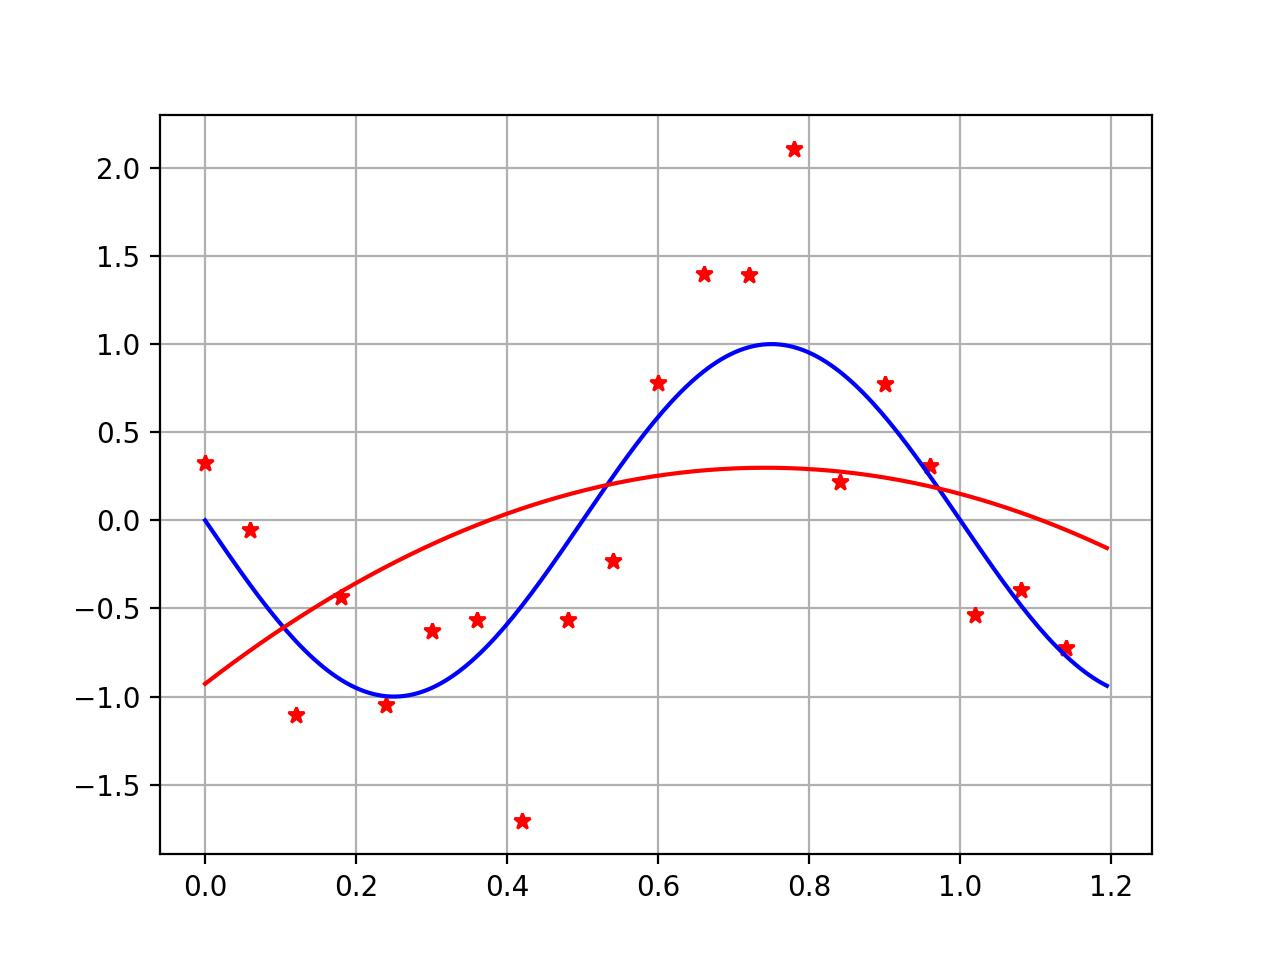
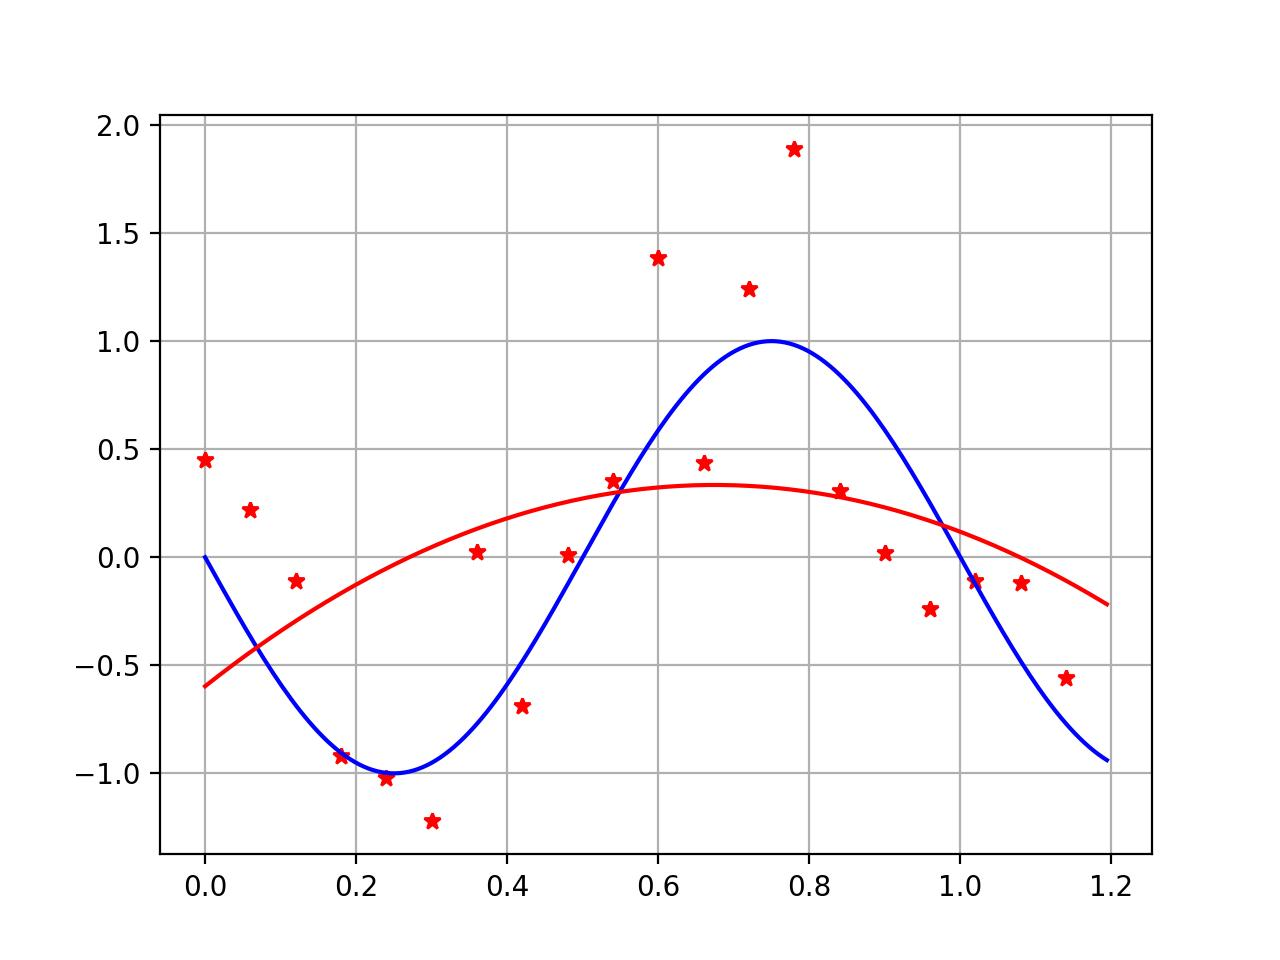
MLP bizarre

diff --git a/TP_SETI_MLP/tp_MLP.py b/TP_SETI_MLP/tp_MLP.py
@@ -5,6 +5,18 @@ from matplotlib.ticker import LinearLocator, FormatStrFormatter
 from sklearn.neural_network import MLPRegressor
 import numpy as np
 
+def plot_error_profile(L_error_app, L_error_test, namefig="error_profile"):
+    plt.plot(range(2, len(L_error_app)+2), L_error_app, '-r')
+    plt.plot(range(2, len(L_error_test)+2), L_error_test, '-b')
+    plt.grid()
+    plt.yscale("log")
+    # plt.show()
+    plt.savefig(namefig+'.jpg', dpi=200)
+    plt.close()
+
+def get_MSE(x, y, reg):
+    return np.sum(pow(reg.predict(x) - y, 2)) / x.shape[0]
+
 def tan_hyp(x):
     A = np.array([[1, 1], [-2, 1]])
     b = np.array([0.2, -0.3])
@@ -25,9 +37,9 @@ def plot_surf(figname, regr=None):
     for i, x1 in enumerate(x1v):
         for j, x2 in enumerate(x2v):
             if not regr:
-                R[j, i] = tan_hyp(np.array([x1, x2]))
+                R[i, j] = tan_hyp(np.array([x1, x2]))
             else:
-                R[j, i] = regr.predict(np.array([[x1, x2]]))[0]
+                R[i, j] = regr.predict(np.array([[x1, x2]]))[0]
 
     fig = plt.figure()
     ax = plt.axes(projection='3d')
@@ -40,7 +52,7 @@ def plot_surf(figname, regr=None):
 
     fig.colorbar(surf, shrink=0.5, aspect=5)
     plt.savefig(figname, dpi=300)
-    plt.show()
+    # plt.show()
     plt.close()
 
 def plot_surf_and_scatter(figname, X, Y, regr=None):
@@ -72,7 +84,7 @@ def plot_surf_and_scatter(figname, X, Y, regr=None):
 
     fig.colorbar(surf, shrink=0.5, aspect=5)
     plt.savefig(figname, dpi=300)
-    plt.show()
+    # plt.show()
     plt.close()
 
 def plot_confusion(x_t, y_t, reg, namefig="confusion"):
@@ -112,12 +124,26 @@ def main():
             j = 0
             i += 1
 
-    # Training
-    regr = MLPRegressor(hidden_layer_sizes=100).fit(X_app, y_app)
-    y_predict = regr.predict(X_test)
+    L_error_app = []
+    L_error_test = []
     
+    # Training
+    for hl_size in range(2, 101):
+        regr = MLPRegressor(hidden_layer_sizes=hl_size, max_iter=2000, activation="tanh").fit(X_app, y_app)
+
+        L_error_app.append(get_MSE(X_app, y_app, regr))
+        L_error_test.append(get_MSE(X_test, y_test, regr))
+
+    best = np.argmin(L_error_test) + 2
+    print("Meilleur modele -> Neurones =", best)
+    
+    regr = MLPRegressor(hidden_layer_sizes=best, max_iter=2000, activation="tanh").fit(X_app, y_app)
+
     # Plots
     plot_surf_and_scatter("MLP learning set", X_app, y_app, regr)
     plot_surf_and_scatter("MLP Test set", X_test, y_test, regr)
     plot_confusion(X_test, y_test, regr, "CONFUSION_MLP")
+    
+    plot_error_profile(L_error_app, L_error_test, "Profil_Err_App_Test_MLP")
+
 main()
